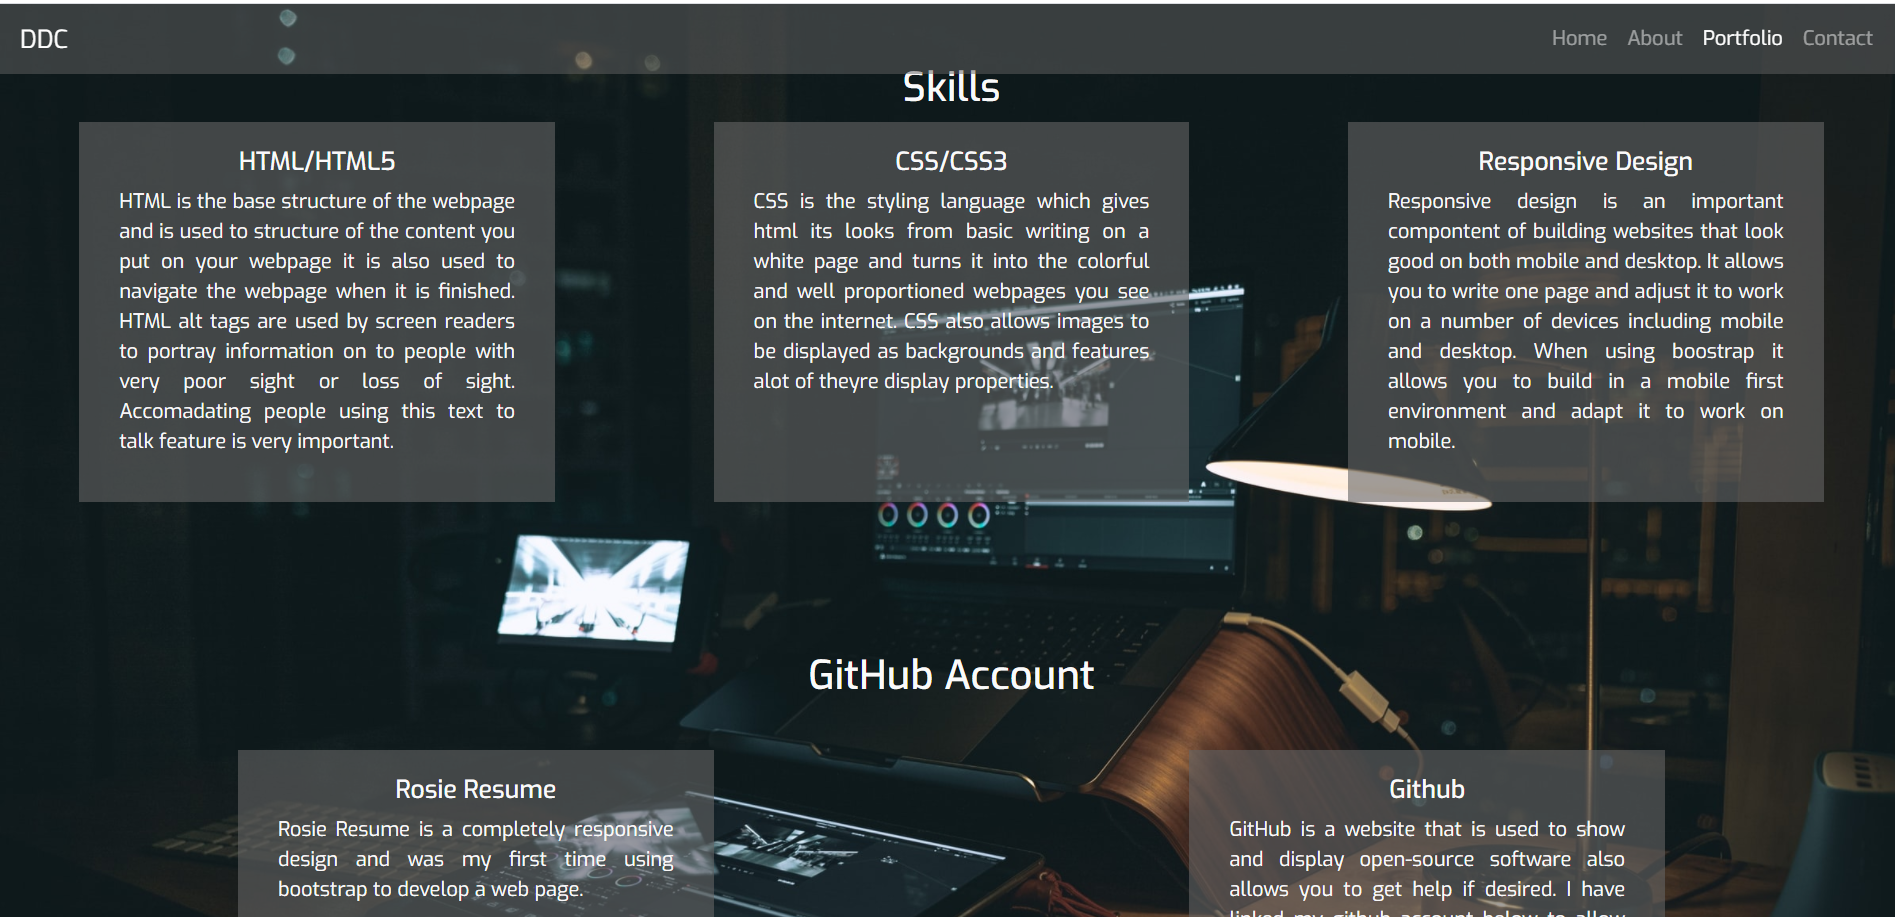
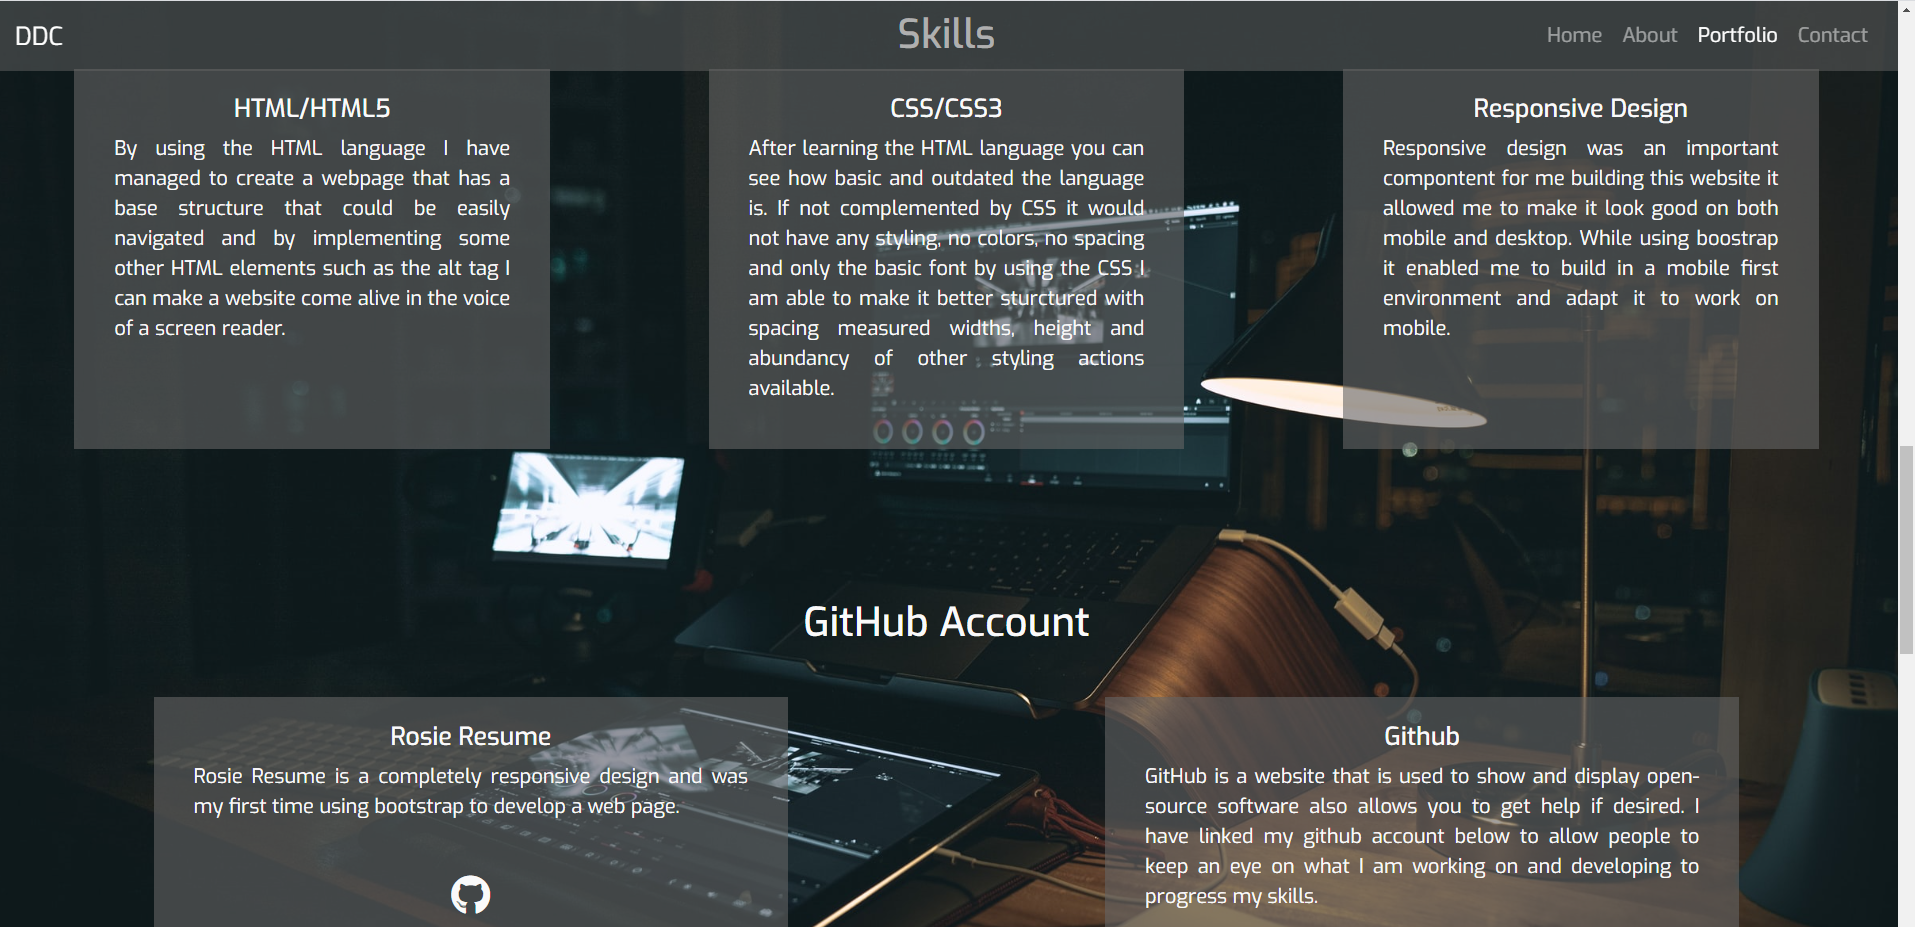
Change Readme3 image for updated after text edit on webiste

diff --git a/README.md b/README.md
@@ -50,10 +50,10 @@ and the images by going from a dark background towards a bright foreground.
 ## Users Expierences
 
 #### Private Business
-As Business owner looking for a web developer I found the information that Darren layed out very well 
+As Business owner looking for a web developer I found the information that Darren laid out very well 
 organised and the website easy to navigate. While still having a fluid layout without compromising on
-colors or content.
-![Screenshot of landing page for website](assets/images/Readme3.png)
+colours or content.
+![Screenshot of skills page for website](assets/images/Readme3.png)
 
 #### Recruiting Company
 As a recruitment officer I expect to find information on Darren's skills and contact information while also getting
@@ -62,15 +62,20 @@ the information I needed.
 ![Screenshot of landing page for website](assets/images/Readme4.png)
 
 # Development
-1. I started with making out a wireframe
-2. I moved on to github to create a repository for version control
-3. I used the gitpod ide along with bootstrap to develop the basis of my Portfolio/Project
-4. I implemented boostraps grid system to allow for minor Responsive design working from mobile first design and up
-5. I then moved on to make a custom CSS file to allow for extra options when doing later responsive design changes
+1. I started with making out a wireframe.
+2. I moved on to github to create a repository for version control.
+3. I used the gitpod ide along with bootstrap to develop the basis of my Portfolio/Project.
+4. I implemented boostraps grid system to allow for minor Responsive design working from mobile first design and up.
+5. I then moved on to make a custom CSS file to allow for extra options when doing later responsive design changes.
+
+![Balsamiq Desktop page 1 wireframe](assets/wireframe/wireframedesktop1.png)
+![Balsamiq Desktop page 2 wireframe](assets/wireframe/wireframedesktop2.png)
+![Balsamiq Mobile page 1 wireframe](assets/wireframe/wireframemobile1.png)
+![Balsamiq Mobile page 2 wireframe](assets/wireframe/wireframemobile2.png)
 
 # Validator
 When coming to the end of my personal resume I validated my CSS and HTML using the required validators
-and fixed any issues that presented. I had one warning on my HTML and could not resolve due to the structure of my coding
+and fixed any issues that presented. I had one warning on my HTML and could not resolve due to the structure of my coding.
 ![HTML Validate Results](assets/images/htmlvalidate.png)
 ![CSS Validate Results](assets/images/cssvalidate.png)
 
@@ -83,7 +88,7 @@ not space properly on the iphone 5 but would work perfectly on iphone X and abov
 the padding was inherited to my image element and was causing many issues with display. I fixed the 
 problem by giving the image a margin of 0 with the media command.
 
-## Low mobile performan on lighthouse
+## Low mobile performance on lighthouse
 While testing I found out about the lighthouse feature of google dev tools and when i was talking to my
 mentor he advised using a lower resolution picture for the mobile design version to allow for better performance
 so I done a bit of research and implemented a media command allowing it to load a lower resolution version of the
@@ -111,12 +116,12 @@ All the information I required on getting the  scrollSpy navigation tool to work
 
 The Exo Font family was imported from https://fonts.google.com/
 
-I also used https://stackoverflow.com/ to help when I encountered issues, reading old question and answers would always lead me to things that might be causing the issue i.e syntax issues
+I also used https://stackoverflow.com/ to help when I encountered issues, reading old question and answers would always lead me to things that might be causing the issue i.e. syntax issues
 
 # Credits
-I would like to give Roman my in class tutor a big thanks for helping me
+I would like to give Roman my in-class tutor a big thanks for helping me
 resolve some minor issues never giving me the answer but leading me in the
 right direction.
 
-I Would also like to thank my mentor Guido for the some of the ideas such as
+I would also like to thank my mentor Guido for the some of the ideas such as
 the scrollspy funtion in bootstrap to allow for more seamless navigation
